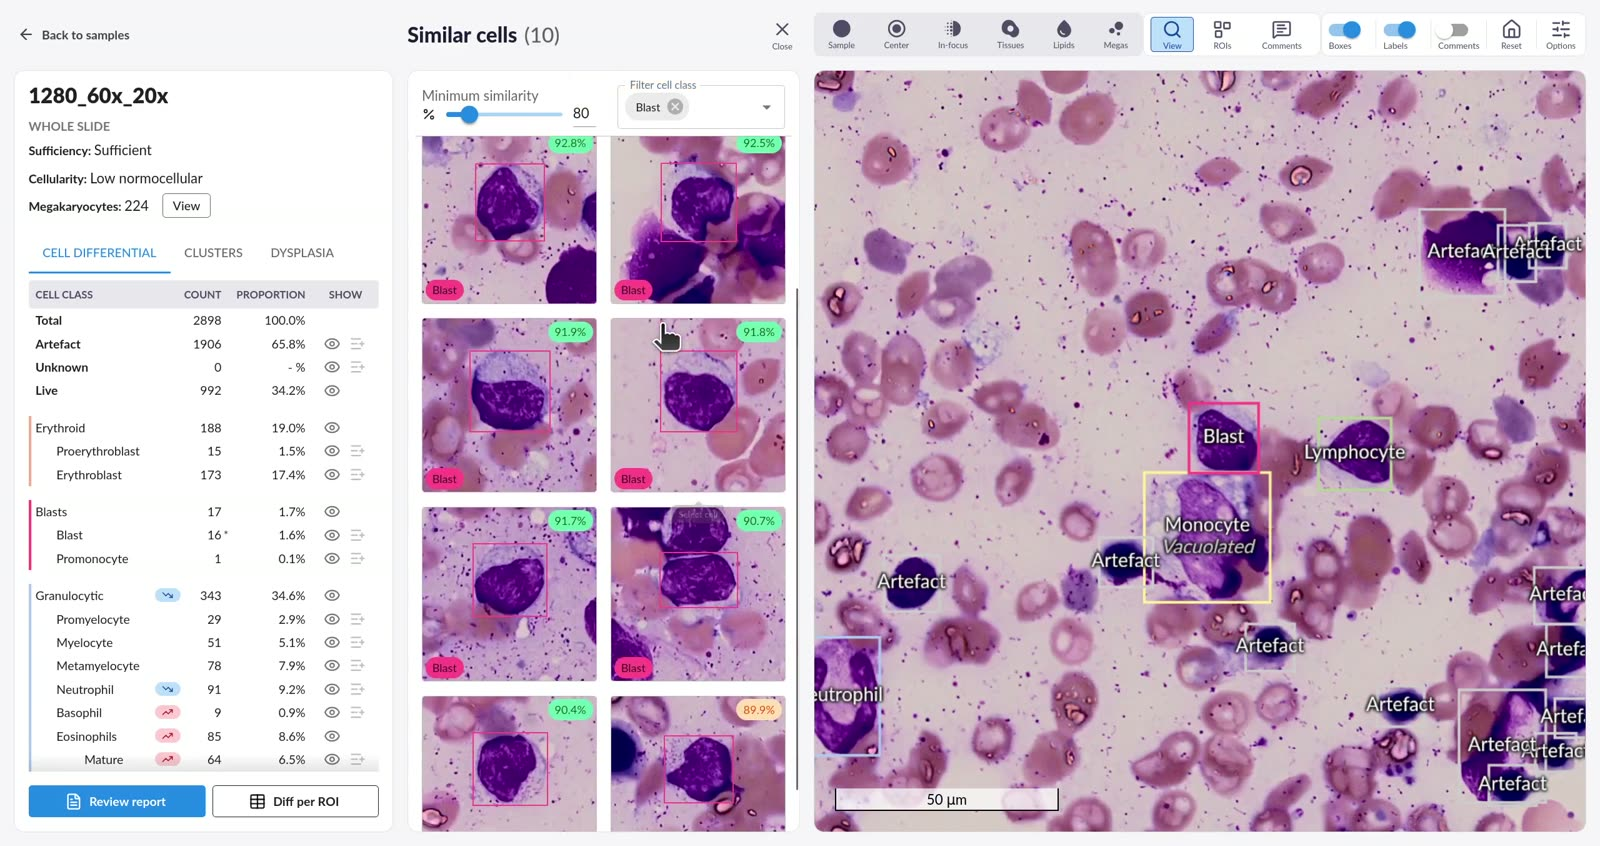
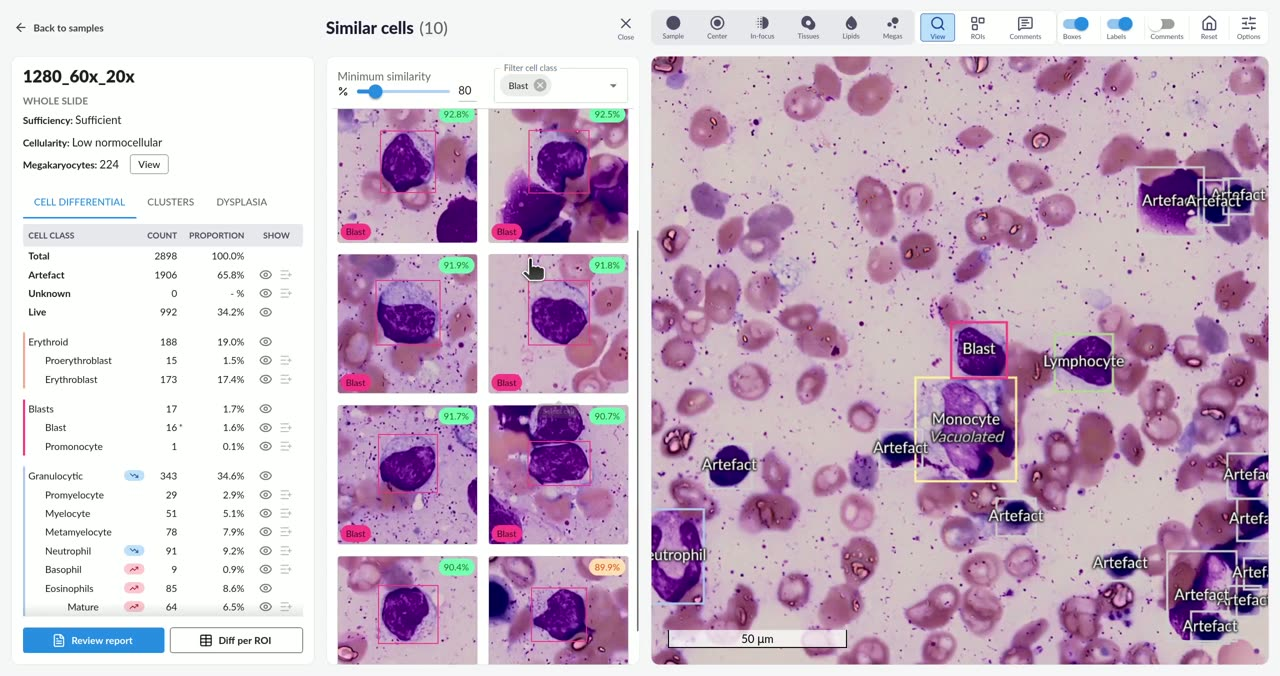
refactor: take the video box from the poster, not hand-written sizes
PostVideo required width and height so it could reserve the box before
anything loaded. That asked an author to measure a video and then keep
two numbers in sync with a file they cannot see inside, and getting them
wrong is invisible until the page shifts under a reader.

The poster already knows. Imported without ?url, Astro's asset pipeline
returns ImageMetadata carrying the image's dimensions, and a poster cut
from the recording has the recording's shape by construction. So the
component derives the box from the poster and both props become
overrides, for the case where a poster is deliberately not the
recording's shape.

Recuts this post's poster at exactly half the capture (1280x676) rather
than scale=1600:-2, whose even-height rounding had skewed the ratio by
0.12% against the video. Smaller too, 145K against 193K.

Also installs the MDX editor extension in the devcontainer, since posts
can now be .mdx and the editor would otherwise treat them as plain text.

diff --git a/AGENTS.md b/AGENTS.md
@@ -63,31 +63,41 @@ posts by filename has to strip it too; `tests/opengraph.test.ts` does.
 
 `.mdx` buys one thing over `.md`: the post can `import` components and its own
 colocated files, with Vite content-hashing whatever it imports. A screen
-recording goes through `PostVideo`, which takes URLs rather than reading the
-files itself:
+recording goes through `PostVideo`:
 
 ```mdx
 import PostVideo from "~src/components/PostVideo.astro";
 import demo from "./demo.mp4?url";
-import demoPoster from "./demo-poster.jpg?url";
+import demoPoster from "./demo-poster.jpg";
 
 <PostVideo
   src={demo}
   poster={demoPoster}
-  width={1280}
-  height={800}
   caption="What the recording shows, in a sentence."
 />
 ```
 
-The declared `width`/`height` are the recording's real pixel size: they set the
-aspect ratio, so the box is reserved before the poster loads. Recordings are
-silent and carry no `<track>`; the caption and the prose around it are the text
-alternative. See the component for why it does not autoplay.
+Note the two different import forms. The video takes `?url`, because nothing
+reads inside it. The poster must NOT: a plain image import returns Astro's
+`ImageMetadata`, whose width and height reserve the box before anything loads.
+A poster cut from the recording carries the recording's shape, so no dimension
+has to be written down or kept in sync by hand. `PostVideo` accepts `width` and
+`height` only for a poster that is not the recording's shape, which would
+otherwise letterbox rather than crop.
 
-Encode a recording the way the placeholder in
-`src/content/news/new-standard-for-cell-reclassification/` is encoded: H.264,
-`yuv420p`, no audio track, `-movflags +faststart`.
+Cut the poster at an exact fraction of the recording (`scale=1280:676` for a
+2560x1352 capture) rather than with `-2` height rounding, which lands on an even
+number and skews the ratio by a fraction of a percent.
+
+Recordings are silent and carry no `<track>`; the caption and the prose around
+it are the text alternative. See the component for why it does not autoplay.
+
+Prefer remuxing a screen capture over re-encoding it. OBS output is usually
+already efficient, so `-c:v copy -an -movflags +faststart` gives a smaller file
+at full resolution with no generation loss; re-encoding is worth it only once a
+probe shows the capture is genuinely too big. Trimming survives a stream copy
+via an MP4 edit list, except that a cut can only start where a keyframe already
+is.
 
 ### Head metadata and OpenGraph cards
 
